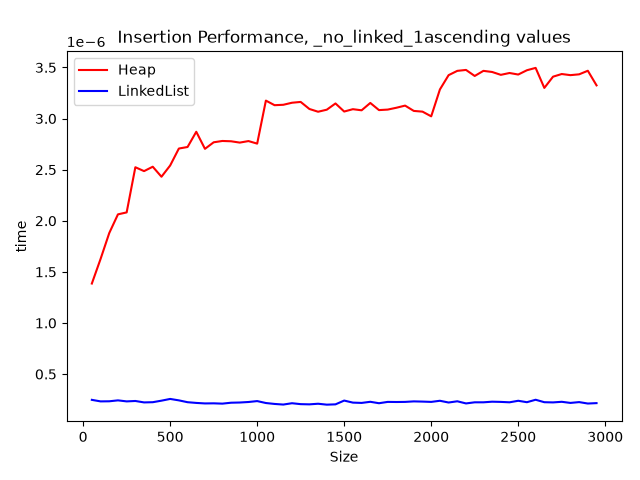
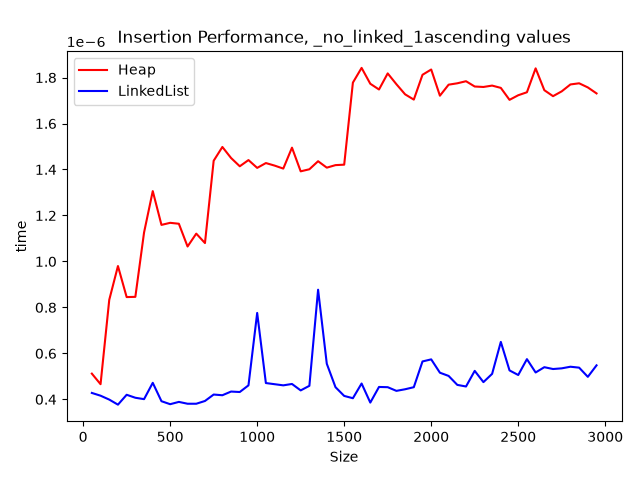
changed tests to use deepcopy instead of remaking the data structures from scratch

diff --git a/PicchioniEs1LabAlg.py b/PicchioniEs1LabAlg.py
@@ -2,6 +2,7 @@ from math import inf, log, ceil
 from time import perf_counter as timer
 import matplotlib.pyplot as plt
 import random
+from copy import deepcopy
 
 
 class Heap:
@@ -400,20 +401,21 @@ class Tests:
         print("-- finished testing for " + label)
 
     def measure_insert_time(self, data_type, time):
+        if data_type == 0:
+            prio_queue = Heap()
+        elif data_type == 1:
+            prio_queue = OrderedLinkedList()
+        else:
+            prio_queue = LinkedList()
+
         for k in intervals:
             best = inf
+            prio_queue.insert(self.inputs[k])
             for _ in range(self.repeats):
-                if data_type == 0:
-                    prio_queue = Heap()
-                elif data_type == 1:
-                    prio_queue = OrderedLinkedList()
-                else:
-                    prio_queue = LinkedList()
-                for i in self.inputs[: k - 1]:
-                    prio_queue.insert(i)
+                temp_prio = deepcopy(prio_queue)
                 new_value = self.inputs[k]
                 start = timer()
-                prio_queue.insert(new_value)
+                temp_prio.insert(new_value)
                 end = timer()
                 best = min(best, end - start)
             time.append(best)
@@ -433,12 +435,12 @@ class Tests:
         # Testing insertion of lowest value
         elif test_type == 2:
             test_type_string = "descending"
-            self.random_inputs()
+            self.inputs = range(self.max_length, 0, -1)
             print("## Testing insertion of descending values")
         else:
             # Testing insertion of random value
             test_type_string = "random"
-            self.inputs = random.choices(range(self.max_value), k=self.max_length)
+            self.random_inputs()
             print("## Testing insertion of random values")
 
         for i in types_to_test:
@@ -475,20 +477,20 @@ class Tests:
     ):
         self.random_inputs()
         time = []
+        if data_type == 0:
+            prio_queue = Heap()
+        elif data_type == 1:
+            prio_queue = OrderedLinkedList()
+        else:
+            prio_queue = LinkedList()
+
         for k in self.intervals:
             best = inf
+            prio_queue.insert(self.inputs[k])
             for _ in range(self.repeats):
-                if data_type == 0:
-                    prio_queue = Heap()
-                elif data_type == 1:
-                    prio_queue = OrderedLinkedList()
-                else:
-                    prio_queue = LinkedList()
-                for i in self.inputs[:k]:
-                    prio_queue.insert(i)
-
+                temp_prio = deepcopy(prio_queue)
                 start = timer()
-                prio_queue.remove_max()
+                temp_prio.remove_max()
                 end = timer()
                 best = min(best, end - start)
             time.append(best)
@@ -501,27 +503,26 @@ class Tests:
     ):
         self.random_inputs()
         time = []
+        if data_type == 0:
+            prio_queue = Heap()
+        elif data_type == 1:
+            prio_queue = OrderedLinkedList()
+        else:
+            prio_queue = LinkedList()
 
         for k in self.intervals:
             best = inf
+            prio_queue.insert(self.inputs[k])
             for _ in range(self.repeats):
-                if data_type == 0:
-                    prio_queue = Heap()
-                elif data_type == 1:
-                    prio_queue = OrderedLinkedList()
-                else:
-                    prio_queue = LinkedList()
-                for i in self.inputs[:k]:
-                    prio_queue.insert(i)
-
-                target_index = k - 1
-                value = prio_queue.get_value(target_index)
+                temp_prio = deepcopy(prio_queue)
+                target_index = temp_prio.get_len() - 1
+                value = temp_prio.get_value(target_index)
                 if value is None:
                     value = 0
                 random_value = random.choice(range(value, self.max_value))
 
                 start = timer()
-                prio_queue.increase_key(target_index, random_value)
+                temp_prio.increase_key(target_index, random_value)
                 end = timer()
                 best = min(best, end - start)
             time.append(best)
@@ -538,8 +539,8 @@ inputs = random.choices(range(max_value), k=max_length)
 tester = Tests(intervals, repeats, max_value, max_length)
 
 print("# Testing Insertion cases")
+# this means that the order they'll be tested will be: Heap, LinkedList and, lastly, OrderedLinkedList
 types_to_test = [0, 2, 1]
-# sorted like this to have the order for the data structures be Heap, LinkedList and lastly OrderedLinkedList
 
 # the range indicates the types of sets that will be inserted
 # 0 random values, 1 ascending values, 2 descending values
@@ -551,13 +552,12 @@ for i in range(3):
 
     tester.insert_test(i, types_to_test, test_name)
 
-
 print("# Testing Remove_Max")
 # range indicates it'll test all three types of data structures
 for i in range(3):
     tester.remove_max_test(i)
 
-    if i == 1:  # case without linked list
+    if i == 1:  # case without linked list. save to separate file
         plt.title("Remove_Max Performance")
         plt.xlabel("Size")
         plt.ylabel("time")
@@ -585,5 +585,4 @@ plt.legend(loc="upper left")
 plt.tight_layout()
 plt.savefig("increase_key_performance.png")
 plt.clf()
-
 # TODO make tests to make a table for values
